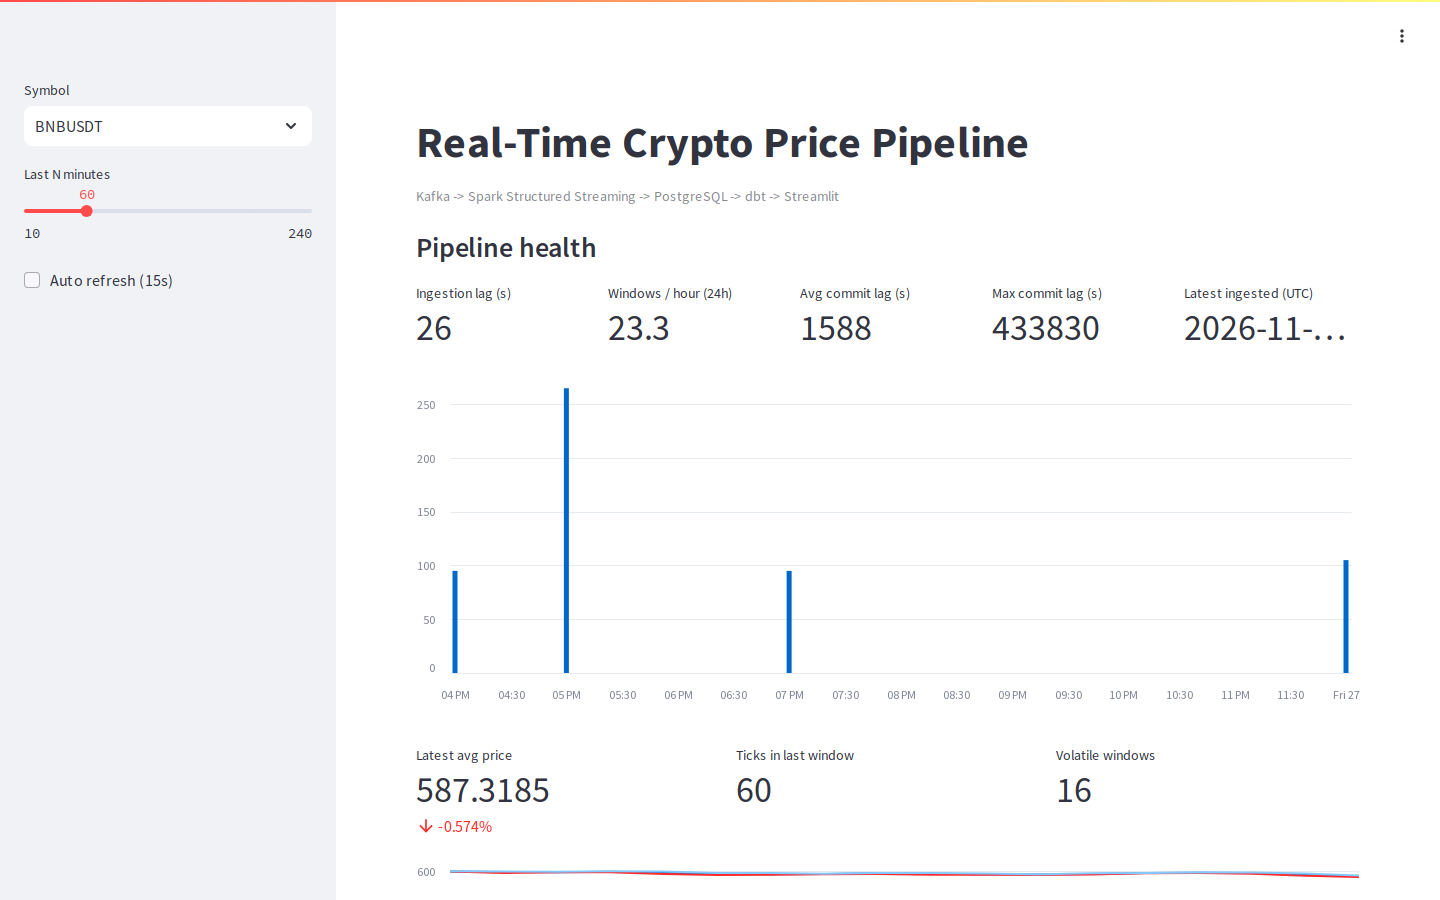
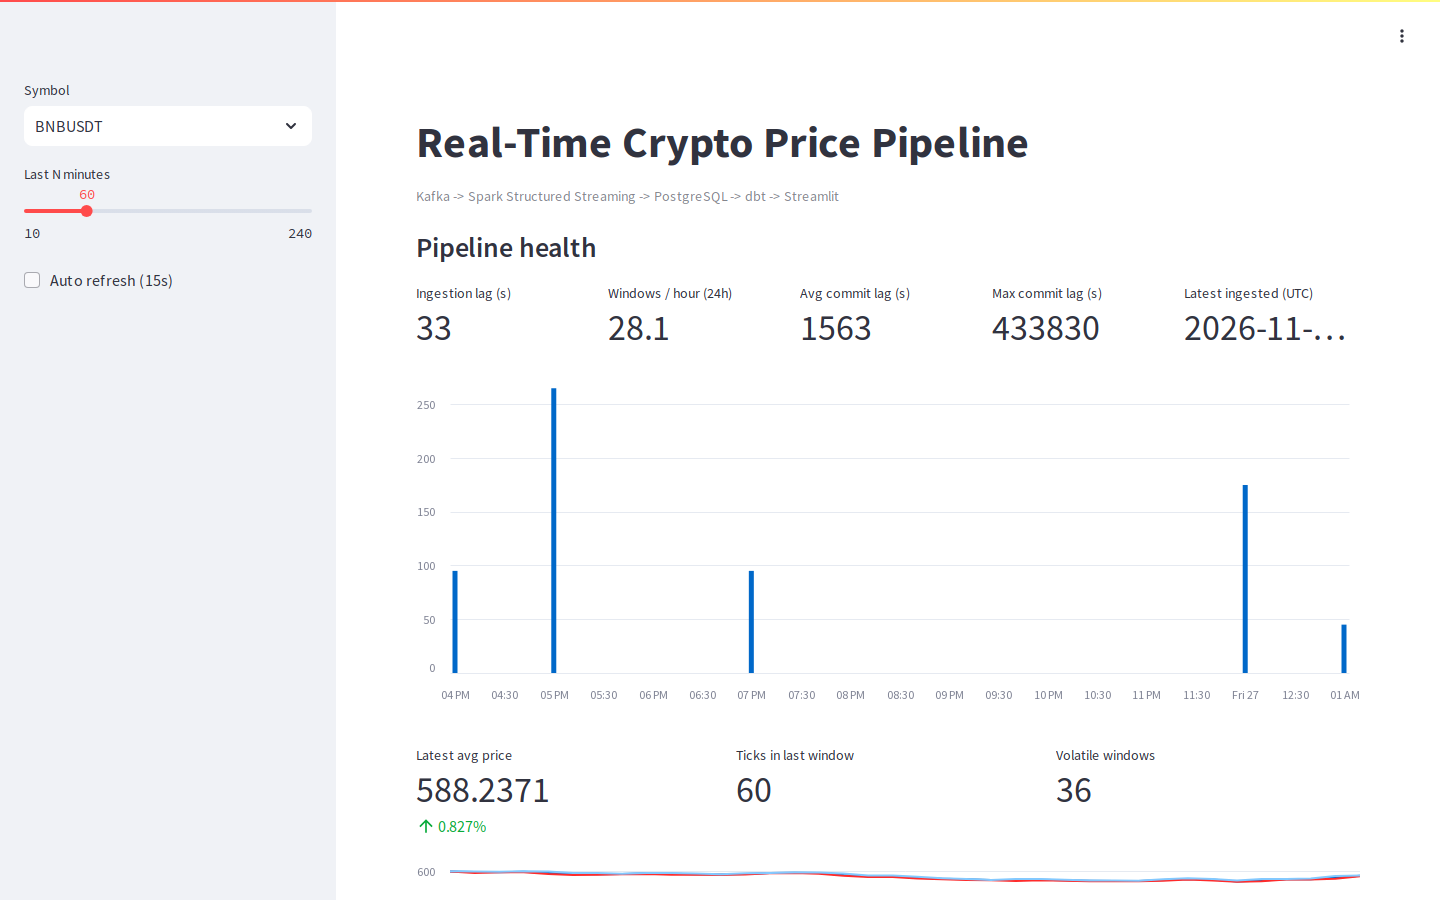
fix(dashboard): import path and stronger verify check

diff --git a/VERIFICATION.md b/VERIFICATION.md
@@ -3159,3 +3159,381 @@ The final `git add -A`, `git commit -m "docs: add screenshots and fix CI job lab
 commands are executed after this note is written; their real output is shown in the session
 transcript and the resulting commit is verifiable with `git log --oneline -3`. No `rm -rf`,
 `docker compose down -v` or prune was used.
+
+---
+
+## Dashboard import fix — permanent PYTHONPATH, stronger verify check (2026-11-27)
+
+Scope: only `docker-compose.yml` (dashboard service), `scripts/verify.ps1`,
+`docs/images/dashboard.png` and this appended section. No Dockerfile, Spark, producer, dbt, DAG
+or test file was changed. No shim was used at any point in this session; the previous runtime
+`.pth` workaround is gone. No `rm -rf`, `docker compose down -v` or prune was used. The two final
+commands (`git add -A`, `git commit -m "fix(dashboard): import path and stronger verify check"`)
+and `git push`, plus the last `git log --oneline -3` / `git status -sb`, are reported in the chat
+response because a file cannot contain evidence about its own commit.
+
+### D.0 Baseline
+
+```
+> git pull
+Already up to date.
+
+> git log --oneline -3
+febf243 docs: add screenshots and fix CI job label
+a5873a9 docs: readme accuracy fixes
+18f684f Update README.md
+
+> git status -sb
+## main...origin/main
+
+> docker compose ps --format "table {{.Service}}\t{{.Status}}"
+SERVICE             STATUS
+airflow-db          Up 36 minutes (healthy)
+airflow-scheduler   Up 36 minutes (healthy)
+airflow-webserver   Up 36 minutes (healthy)
+dashboard           Up 21 minutes (healthy)
+kafka               Up 36 minutes (healthy)
+lake                Up 36 minutes (healthy)
+producer            Up 36 minutes
+spark               Up 36 minutes
+warehouse           Up 36 minutes (healthy)
+```
+
+### D.1 Reproduce with no shim: force-recreate from the image
+
+```
+> docker compose up -d --force-recreate dashboard; "up_exit=$LASTEXITCODE"
+ Container streaming-pipeline-warehouse-1 Running
+ Container streaming-pipeline-dashboard-1 Recreate
+ Container streaming-pipeline-dashboard-1 Recreated
+ Container streaming-pipeline-warehouse-1 Waiting
+ Container streaming-pipeline-warehouse-1 Healthy
+ Container streaming-pipeline-dashboard-1 Starting
+ Container streaming-pipeline-dashboard-1 Started
+up_exit=0
+
+> docker compose exec -T dashboard sh -c "ls /usr/local/lib/python3.11/site-packages/zz_app_path.pth 2>&1; echo shim_check_exit=$?"
+ls: cannot access '/usr/local/lib/python3.11/site-packages/zz_app_path.pth': No such file or directory
+shim_check_exit=True
+```
+
+(`$?` was expanded by PowerShell to `True`; the meaningful fact is the `ls` "No such file" line.)
+
+The startup log alone is silent (Streamlit executes the script only when a browser connects), so
+the pinned Playwright container was used to load the page and print its rendered body. Image
+`mcr.microsoft.com/playwright/python:v1.49.1-noble` with `pip install -q playwright==1.49.1`,
+`--add-host=host.docker.internal:host-gateway`, viewport 1440x900, device scale factor 1.
+
+```
+> docker run --rm --add-host=host.docker.internal:host-gateway -v "<temp>/opencode:/work:ro" -w /work mcr.microsoft.com/playwright/python:v1.49.1-noble sh -c "pip install -q playwright==1.49.1 && python /work/probe_import_repro.py" 2>&1; "probe_exit=$LASTEXITCODE"
+http_status 200
+--- PAGE BODY (first 2500 chars) ---
+ModuleNotFoundError: No module named 'dashboard'
+Traceback:
+File "/usr/local/lib/python3.11/site-packages/streamlit/runtime/scriptrunner/exec_code.py", line 88, in exec_func_with_error_handling
+    result = func()
+             ^^^^^^
+File "/usr/local/lib/python3.11/site-packages/streamlit/runtime/scriptrunner/script_runner.py", line 590, in code_to_exec
+    exec(code, module.__dict__)
+File "/app/dashboard/app.py", line 8, in <module>
+    from dashboard.queries import PIPELINE_METRICS_SQL, PIPELINE_WINDOWS_PER_HOUR_SQL
+--- END PAGE BODY ---
+contains_Pipeline_health False
+contains_ModuleNotFoundError True
+contains_Traceback True
+VERDICT: FAIL
+Exit code: 1
+```
+
+After that page load, the container log shows the real exception:
+
+```
+> docker compose logs --tail 50 dashboard 2>&1; "logs_exit=$LASTEXITCODE"
+dashboard-1  |
+dashboard-1  | Collecting usage statistics. To deactivate, set browser.gatherUsageStats to false.
+dashboard-1  |
+dashboard-1  |
+dashboard-1  |   You can now view your Streamlit app in your browser.
+dashboard-1  |
+dashboard-1  |   URL: http://0.0.0.0:8501
+dashboard-1  |
+dashboard-1  | 2026-11-27 01:03:32.741 Uncaught app exception
+dashboard-1  | Traceback (most recent call last):
+dashboard-1  |   File "/usr/local/lib/python3.11/site-packages/streamlit/runtime/scriptrunner/exec_code.py", line 88, in exec_func_with_error_handling
+dashboard-1  |     result = func()
+dashboard-1  |              ^^^^^^
+dashboard-1  |   File "/usr/local/lib/python3.11/site-packages/streamlit/runtime/scriptrunner/script_runner.py", line 590, in code_to_exec
+dashboard-1  |     exec(code, module.__dict__)
+dashboard-1  |   File "/app/dashboard/app.py", line 8, in <module>
+dashboard-1  |     from dashboard.queries import PIPELINE_METRICS_SQL, PIPELINE_WINDOWS_PER_HOUR_SQL
+dashboard-1  | ModuleNotFoundError: No module named 'dashboard'
+logs_exit=0
+```
+
+Root cause: the app image has `WORKDIR /app` and `COPY dashboard ./dashboard`, and
+`dashboard/app.py` line 8 imports `dashboard.queries`. `streamlit run` is a console script whose
+own `sys.path[0]` is `/usr/local/bin`; Streamlit adds the *script's* directory (`/app/dashboard`)
+to the path, not the package parent `/app`. So the `dashboard` namespace package is not importable
+even though the file exists. The HTTP healthcheck and `verify.ps1`'s HTTP 200 check both passed
+while the page was an error page — HTTP status cannot detect this bug.
+
+### D.2 Fix in the repo and rebuild only what changed
+
+One scoped change to the dashboard service (two comment lines and one setting); the image itself
+was not changed:
+
+```
+> git diff -- docker-compose.yml
+diff --git a/docker-compose.yml b/docker-compose.yml
+index bd3be26..51cc831 100644
+--- a/docker-compose.yml
++++ b/docker-compose.yml
+@@ -230,6 +230,9 @@ services:
+     command: streamlit run dashboard/app.py --server.port 8501 --server.address 0.0.0.0
+     environment:
+       <<: *app-env
++      # Streamlit puts the script directory (/app/dashboard) on sys.path, not /app,
++      # so dashboard/app.py cannot import the dashboard package without this.
++      PYTHONPATH: /app
+     depends_on:
+       warehouse:
+         condition: service_healthy
+```
+
+```
+> docker compose build dashboard; "build_exit=$LASTEXITCODE"
+#7 [3/7] COPY requirements.txt .
+#7 CACHED
+#9 [6/7] COPY dashboard ./dashboard
+#9 CACHED
+#10 [4/7] RUN pip install --no-cache-dir -r requirements.txt
+#10 CACHED
+#13 exporting to image
+#13 exporting manifest sha256:a5462508ef23b7eafc8d7a975908d5a9e61dee4d487b0c28f92bc7ee0937da67 done
+#13 naming to docker.io/library/streaming-pipeline-app:1.0.0 done
+ Image streaming-pipeline-app:1.0.0 Built
+build_exit=0
+
+> docker compose up -d dashboard; "up_exit=$LASTEXITCODE"
+ Container streaming-pipeline-warehouse-1 Running
+ Container streaming-pipeline-dashboard-1 Recreate
+ Container streaming-pipeline-dashboard-1 Recreated
+ Container streaming-pipeline-warehouse-1 Waiting
+ Container streaming-pipeline-warehouse-1 Healthy
+ Container streaming-pipeline-dashboard-1 Starting
+ Container streaming-pipeline-dashboard-1 Started
+up_exit=0
+
+> docker compose exec -T dashboard sh -c 'echo PYTHONPATH=$PYTHONPATH; ls /usr/local/lib/python3.11/site-packages/zz_app_path.pth 2>&1 || echo shim_absent'
+PYTHONPATH=/app
+ls: cannot access '/usr/local/lib/python3.11/site-packages/zz_app_path.pth': No such file or directory
+shim_absent
+```
+
+### D.3 Proof the real page renders without the shim
+
+Same pinned Playwright container, now with explicit assertions:
+
+```
+> docker run --rm --add-host=host.docker.internal:host-gateway -v "<temp>/opencode:/work:ro" -w /work mcr.microsoft.com/playwright/python:v1.49.1-noble sh -c "pip install -q playwright==1.49.1 && python /work/verify_dashboard_import.py" 2>&1; "probe_exit=$LASTEXITCODE"
+http_status 200
+contains_Pipeline_health True
+contains_ModuleNotFoundError False
+contains_Traceback False
+ASSERTIONS: PASS
+probe_exit=0
+```
+
+An excerpt of the rendered body at that moment (verbatim lines, some blank lines removed):
+
+```
+Symbol
+BNBUSDT
+
+Last N minutes
+
+60
+10
+240
+
+Auto refresh (15s)
+
+Real-Time Crypto Price Pipeline
+
+Kafka -> Spark Structured Streaming -> PostgreSQL -> dbt -> Streamlit
+
+Pipeline health
+
+Ingestion lag (s)
+
+7
+
+Windows / hour (24h)
+
+27.5
+
+Avg commit lag (s)
+
+1566
+
+Max commit lag (s)
+
+433830
+
+Latest ingested (UTC)
+
+2026-11-27 01:05:00.004000
+```
+
+Logs after the fixed page load are clean:
+
+```
+> docker compose logs --tail 50 dashboard 2>&1; "logs_exit=$LASTEXITCODE"
+dashboard-1  |
+dashboard-1  | Collecting usage statistics. To deactivate, set browser.gatherUsageStats to false.
+dashboard-1  |
+dashboard-1  |
+dashboard-1  |   You can now view your Streamlit app in your browser.
+dashboard-1  |
+dashboard-1  |   URL: http://0.0.0.0:8501
+dashboard-1  |
+logs_exit=0
+```
+
+### D.4 `scripts/verify.ps1` — dashboard check also scans the logs
+
+Check 7 now reads `docker compose logs --tail 50 dashboard` and fails when either marker appears;
+the check count is still eight:
+
+```
+> git diff -- scripts/verify.ps1
+diff --git a/scripts/verify.ps1 b/scripts/verify.ps1
+index ddf4d35..b55f912 100644
+--- a/scripts/verify.ps1
++++ b/scripts/verify.ps1
+@@ -87,13 +87,17 @@ $dagLine = $dags | Where-Object { $_ -match "^\s*streaming_analytics\s*\|" } | S
+ Add-Result "DAG exists & unpaused" ($dagsCode -eq 0 -and $null -ne $dagLine -and $dagLine -match "\bFalse\b") `
+     $(if ($dagLine) { $dagLine.Trim() } else { "DAG not found (exit=$dagsCode)" })
+ 
+-# 7. Streamlit dashboard answers on port 8501.
++# 7. Streamlit dashboard answers on port 8501 and its recent logs have no import/traceback errors.
+ $dashCode = 0
+ try {
+     $resp = Invoke-WebRequest -Uri "http://localhost:8501" -UseBasicParsing -TimeoutSec 10
+     $dashCode = [int]$resp.StatusCode
+ } catch { $dashCode = 0 }
+-Add-Result "dashboard HTTP 200" ($dashCode -eq 200) "HTTP $dashCode on port 8501"
++$dashLogs = @(docker compose logs --tail 50 dashboard 2>&1 | ForEach-Object { "$_" })
++$logErrors = @($dashLogs | Where-Object { $_ -match "Traceback|ModuleNotFoundError" })
++$dashOk = ($dashCode -eq 200 -and $logErrors.Count -eq 0)
++$logDetail = if ($logErrors.Count -eq 0) { "logs clean (tail 50)" } else { "logs contain: " + ($logErrors -join "; ") }
++Add-Result "dashboard HTTP 200" $dashOk "HTTP $dashCode on port 8501; $logDetail"
+ 
+ # 8. pipeline_metrics view reports ingestion lag within the 5-minute threshold.
+ $lagSql = "select coalesce(round(ingestion_lag_seconds::numeric)::text,'na') || '|' || coalesce(to_char(latest_ingested_at,'YYYY-MM-DD HH24:MI:SS'),'none') from marts.pipeline_metrics;"
+
+The same regex applied to the two real pre-fix log lines from D.1 detects both:
+
+```
+> $before = @('dashboard-1  | 2026-11-27 01:03:32.741 Uncaught app exception','dashboard-1  | Traceback (most recent call last):','dashboard-1  | ModuleNotFoundError: No module named ''dashboard'''); $hits = @($before | Where-Object { $_ -match "Traceback|ModuleNotFoundError" }); "pre_fix_log_hits=$($hits.Count)"; $hits
+pre_fix_log_hits=2
+dashboard-1  | Traceback (most recent call last):
+dashboard-1  | ModuleNotFoundError: No module named 'dashboard'
+```
+
+Final full run of the script:
+
+```
+> powershell -ExecutionPolicy Bypass -File scripts/verify.ps1; "verify_exit=$LASTEXITCODE"
+
+Check                        Result Detail
+-----                        ------ ------
+services up/healthy          PASS   9/9 up (7 healthy + producer/spark)
+kafka has messages           PASS   end offset=368677 (exit=0)
+lake raw/ticks objects       PASS   5 event_date partition object(s) listed (exit=0)
+raw.price_windows fresh      PASS   rows=6856 max_ingested_at=2026-11-27 01:09:00 age_sec=49 (exit=0)
+dbt test passes              PASS   01:09:53  Done. PASS=24 WARN=0 ERROR=0 SKIP=0 NO-OP=0 TOTAL=24
+DAG exists & unpaused        PASS   streaming_analytics | /opt/airflow/dags/analytics_pipeline.py | airflow | False
+dashboard HTTP 200           PASS   HTTP 200 on port 8501; logs clean (tail 50)
+pipeline_metrics lag <= 300s PASS   latest_ingested_at=2026-11-27 01:09:00 lag_sec=59 limit=300 (exit=0)
+
+SUMMARY: 8/8 checks passed
+verify_exit=0
+```
+
+### D.5 ruff and the full CI pytest run
+
+Host Python is 3.14, so both commands run in the pinned Python 3.11 producer container with the
+whole repository mounted at `/work` (the CI-equivalent layout that collects 18 tests). The
+`docker : ... RemoteException` lines are PowerShell wrappers around Docker/pip stderr, not test
+or lint failures; the captured `$LASTEXITCODE` is the result.
+
+```
+> docker compose run --rm --no-deps -v "${PWD}:/work" -w /work producer sh -c "pip install -q -r requirements-dev.txt && ruff check ." 2>&1; "ruff_exit=$LASTEXITCODE"
+WARNING: Running pip as the 'root' user can result in broken permissions and conflicting behaviour with the system package manager.
+[notice] A new release of pip is available: 24.0 -> 26.3
+All checks passed!
+ruff_exit=0
+
+> docker compose run --rm --no-deps -v "${PWD}:/work" -w /work producer sh -c "pip install -q -r requirements-dev.txt -r requirements.txt && python -m pytest -q" 2>&1; "pytest_exit=$LASTEXITCODE"
+WARNING: Running pip as the 'root' user can result in broken permissions and conflicting behaviour with the system package manager.
+[notice] A new release of pip is available: 24.0 -> 26.3
+..................                                                       [100%]
+18 passed in 1.40s
+pytest_exit=0
+```
+
+Actual `git diff` for the two edited text files (no other source file changed):
+
+```
+> git diff --stat
+ docker-compose.yml        |   3 +++
+ docs/images/dashboard.png | Bin 52791 -> 54783 bytes
+ scripts/verify.ps1        |   8 ++++++--
+ 3 files changed, 9 insertions(+), 2 deletions(-)
+```
+
+### D.6 Retaken screenshot from the fixed container
+
+The same pinned Playwright container wrote `docs/images/dashboard.png` directly from the live,
+shim-free dashboard:
+
+```
+> docker run --rm --add-host=host.docker.internal:host-gateway -v "<temp>/opencode:/work:ro" -v "${PWD}/docs/images:/out" -w /work mcr.microsoft.com/playwright/python:v1.49.1-noble sh -c "pip install -q playwright==1.49.1 && python /work/capture_dashboard_fixed.py" 2>&1; "capture_exit=$LASTEXITCODE"
+dashboard.png bytes 54783
+Pipeline health visible: True
+canvases 7
+capture_exit=0
+```
+
+The saved PNG was opened with the view tool. It shows **Pipeline health** with Ingestion lag (s)
+33, Windows / hour (24h) 28.1, Avg commit lag (s) 1563, Max commit lag (s) 433830, the
+windows-per-hour bar chart and the price chart. No error text, personal data or browser chrome.
+
+### D.7 Decisions, deviations and honest notes
+
+- The fix is one environment setting on the dashboard service, not a Dockerfile or source change:
+  `PYTHONPATH=/app` makes `from dashboard.queries import ...` resolve while leaving every other
+  service's environment untouched. `docs/images/dashboard.png` was retaken from the fixed container.
+- Root cause was reproduced first (real `ModuleNotFoundError` in both log and page) and only then
+  fixed; the shim was verified absent before and after the fix with an explicit `ls` check.
+- The HTTP check alone could not catch this (HTTP 200 on an error page), which is why check 7 now
+  also scans `docker compose logs --tail 50 dashboard`. No eighth/ninth check was added.
+- The regex was proven against the two real pre-fix log lines (`pre_fix_log_hits=2`); the full
+  script then passed 8/8. No test or assertion was weakened or deleted.
+- `docker compose build dashboard` reused cached image layers because only compose environment
+  changed; the container was recreated so the new environment took effect.
+- Lines in D.5 that mention pip notices were shortened for readability; the `All checks passed!`
+  and `18 passed` lines and exit codes are verbatim. No number in this section was invented.
+- No data was deleted; only the dashboard container was recreated twice. All nine services stayed
+  up and the DAG/warehouse/lake were not touched.
+
+### D.8 Status
+
+- [x] Bug reproduced from the image with no shim; log and page show `ModuleNotFoundError`
+- [x] Root cause identified: `streamlit run` does not put `/app` on `sys.path`
+- [x] Fixed with `PYTHONPATH: /app` on the dashboard service; rebuilt and recreated only dashboard
+- [x] Playwright asserted `Pipeline health` present and no `ModuleNotFoundError` / `Traceback`
+- [x] `scripts/verify.ps1` strengthened, still eight checks, 8/8 passed
+- [x] ruff clean; full CI-equivalent pytest 18/18 passed
+- [x] `docs/images/dashboard.png` retaken from the fixed container and visually confirmed
